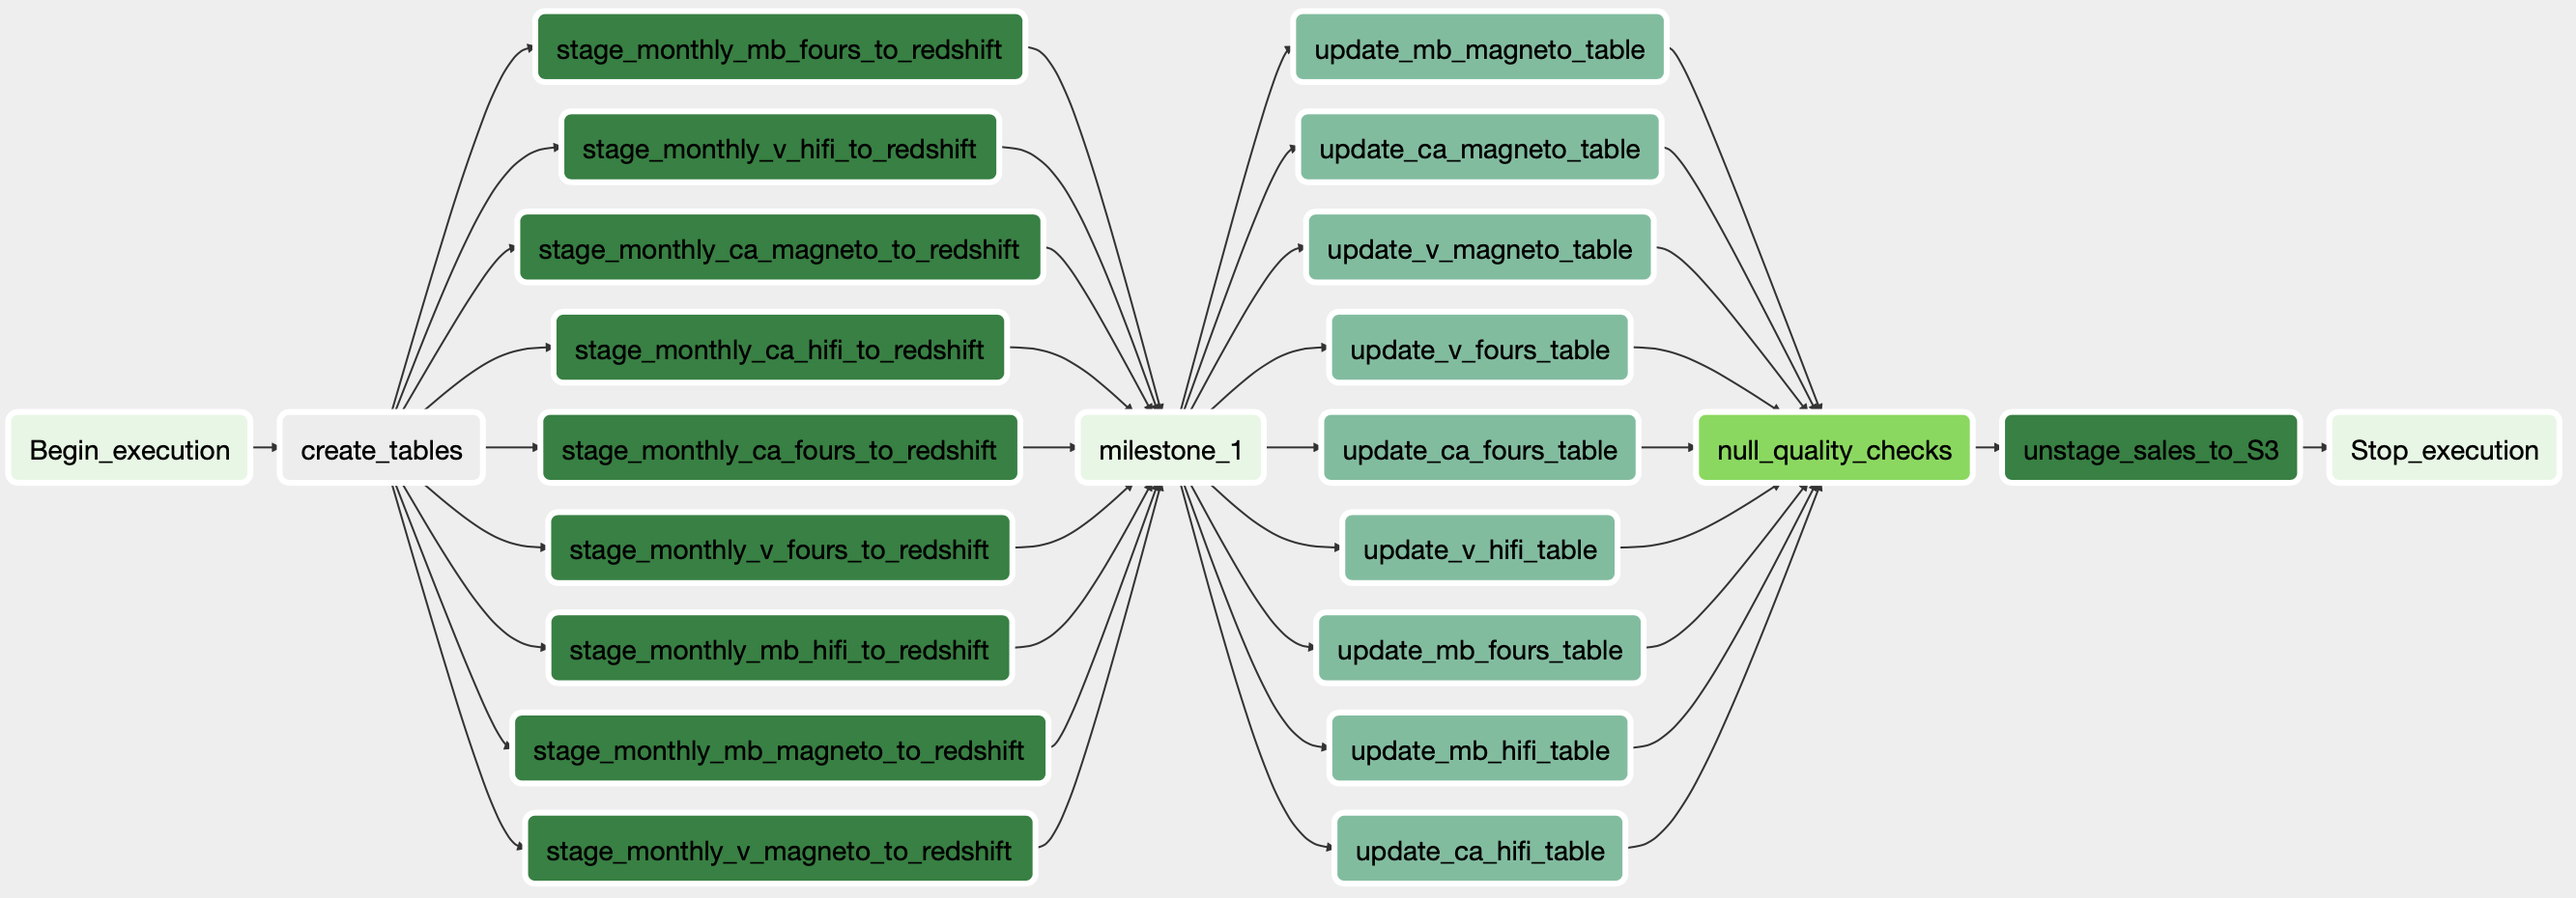
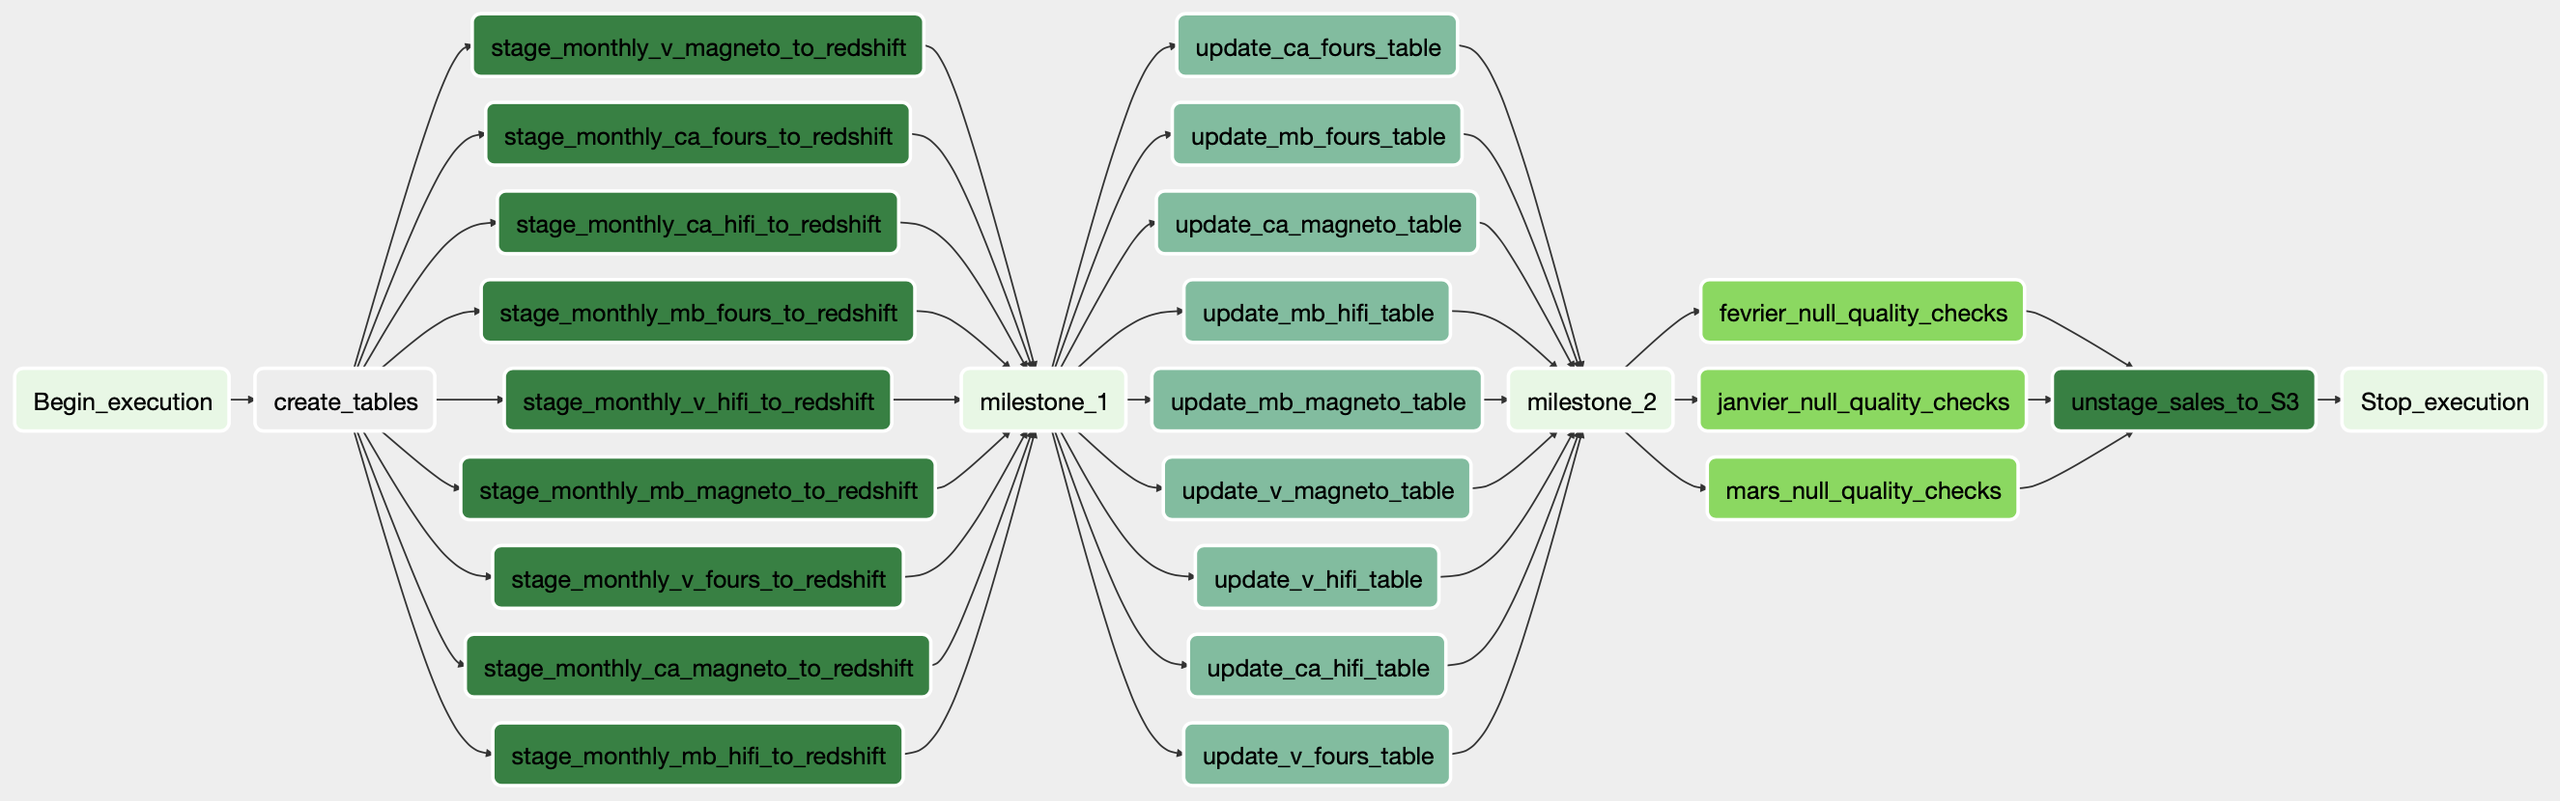
progress monthly dag

Changed region(s): [[0.0, 0.0, 0.9902, 0.8735], [0.4642, 0.9036, 0.6498, 0.994], [0.1857, 0.9036, 0.4023, 0.994]]

diff --git a/airflow/dags/monthly_global_dag.py b/airflow/dags/monthly_global_dag.py
@@ -272,14 +272,35 @@ update_mb_magneto_table = UpdateDimensionOperator(
 ### Quality checks
 milestone_2 = DummyOperator(task_id='milestone_2',  dag=dag)
 columns = ['ca_reel', 'vente_reel', 'marge_reel']
+months = ['janvier', 'fevrier', 'mars']
+null_quality_checks = []
 
-january_null_quality_checks = CheckMonthlyNullOperator(
-    task_id='january_null_quality_checks',
-    dag=dag,
-    redshift_conn_id="redshift",
-    columns=columns,
-    month='janvier'
-)
+for month in months :
+    null_quality_check = CheckMonthlyNullOperator(
+        task_id=f"{month}_null_quality_checks",
+        dag=dag,
+        redshift_conn_id="redshift",
+        columns=columns,
+        month=month
+    )
+    null_quality_checks.append(null_quality_check)
+
+
+# january_null_quality_checks = CheckMonthlyNullOperator(
+#     task_id='january_null_quality_checks',
+#     dag=dag,
+#     redshift_conn_id="redshift",
+#     columns=columns,
+#     month='janvier'
+# )
+
+# february_null_quality_checks = CheckMonthlyNullOperator(
+#     task_id='february_null_quality_checks',
+#     dag=dag,
+#     redshift_conn_id="redshift",
+#     columns=columns,
+#     month='fevrier'
+# )
 
 
 
@@ -312,7 +333,7 @@ milestone_1 >> \
 ] >> \
 milestone_2 >> \
 [
-    january_null_quality_checks
+    null_quality_check for null_quality_check in null_quality_checks
 ] >> \
 unstage_sales_to_S3 >> \
 end_operator
